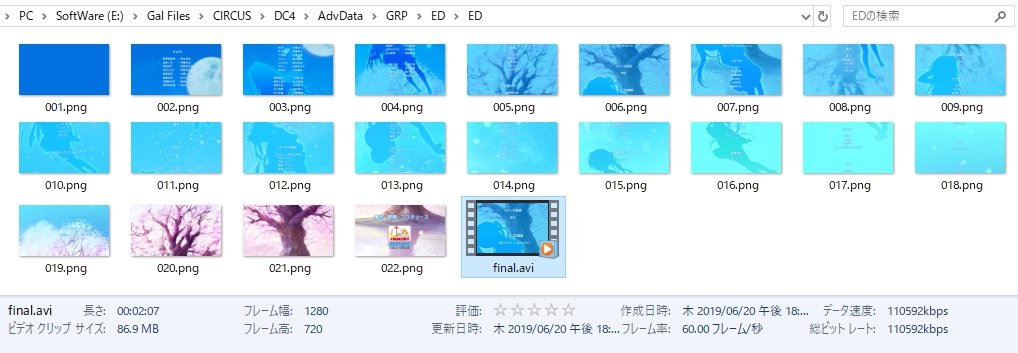
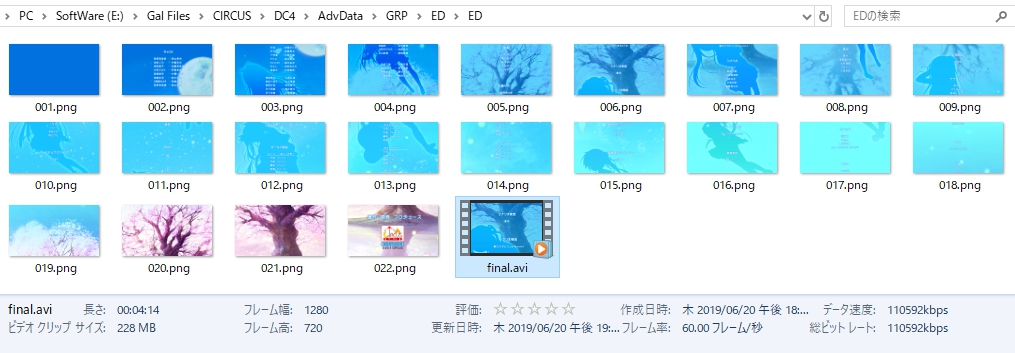
Add setting tips

diff --git a/longimg.py b/longimg.py
@@ -106,7 +106,7 @@ def addFrameToVideo(videoWriter, frames: list):
 	for i, frame in enumerate(frames):
 		videoWriter.write(toCv2(frame))
 
-def getFrameVideo(long_img: Image.Image, ratio: float, PerMove: int, PerFragment: int, fps: int, finalwait: int, path: str):
+def getFrameVideo(long_img: Image.Image, ratio: float, PerMove: int, PerFragment: int, fps: int, beginwait: int, finalwait: int, path: str):
 	'''
 	分批次处理帧切片和视频
 
@@ -123,6 +123,12 @@ def getFrameVideo(long_img: Image.Image, ratio: float, PerMove: int, PerFragment
 	videoWriter = cv2.VideoWriter(path, fourcc, fps, (frame_width, frame_height))
 	
 	print("All Frame Count: ", FrameCnt)
+	print("Final Duration:  %.2fs\n" % ((FrameCnt + beginwait + finalwait) / fps))
+
+	# 视频开始等待的帧数
+	print("Handle Begining Frame: All for %d" % beginwait)
+	for i in range(beginwait):
+		addFrameToVideo(videoWriter, getFrame(long_img, PerMove, frame_width, frame_height, 0, 1))
 
 	# 总批次数，向上取整，超过部分在 getFrame 判断
 	batch = math.ceil(FrameCnt / PerFragment)
@@ -142,27 +148,63 @@ def getFrameVideo(long_img: Image.Image, ratio: float, PerMove: int, PerFragment
 	# 释放资源
 	videoWriter.release()
 
-def checkFileExist(filtpath):
+def checkFileExist(filepath):
 	'''
 	判断文件是否存在
 	'''
 	if os.path.exists(filepath):
-		op = input("\nThe file %s exists, cover it? (y/n): " % filename)
+		op = input("\nThe file %s has existed, cover it? (y/n): " % filepath)
 		while not (op == "n" or op == "y"):
-			op = input("Wrong option, the file exists, cover it? (y/n): ")
+			op = input("Wrong option, the file has existed, cover it? (y/n): ")
 		if op == "n":
 			exit(1)
 
-if __name__ == "__main__":
+def getArgv() -> (str, str, float, int, int, int, int, str):
+	'''
+	获得系统参数
+	'''
 	dir = sys.argv[1] # 图片所在文件夹
 	ext = sys.argv[2] # 图片的后缀名
-	ratio = float(sys.argv[3]) / float(sys.argv[4]) # 分辨率 16 9 / 4 3
-	fps = int(sys.argv[5]) # 帧数 30 / 60
-	finalwait = int(sys.argv[6]) # 最后的等待时间
-	filename = sys.argv[7] # 保存文件名，不带后缀都指定为 avi
 
-	# 保存的文件名
-	filepath = "%s%s%s.avi" % (dir, os.path.sep, filename)
+	radioW = int(sys.argv[3])
+	radioH = int(sys.argv[4])
+	ratio = float(radioW) / float(radioH) # 分辨率 16 9 / 4 3
+	
+	fps = int(sys.argv[5]) # 帧数 30 / 60
+
+	PerMove = int(sys.argv[6]) # 每一帧对应移动长图多少像素
+
+	beginwait = int(sys.argv[7]) # 开始的等待时间
+	finalwait = int(sys.argv[8]) # 最后的等待时间
+
+	filename = sys.argv[9] # 保存文件名，不带后缀都指定为 avi
+	filepath = "%s%s%s.avi" % (dir, os.path.sep, filename) # 保存的文件名
+
+	print('''
+Setting:
+Images Directory: {}*.{}
+Frame Ratio: {}:{}, FPS: {}, Pixel Move: {}, 
+Begin Wait:{}, Final Wait: {}
+Save FileName: {}
+Video Duration: See After \
+'''
+	.format(dir + os.path.sep, ext,
+			radioW, radioH, fps, PerMove,
+			beginwait, finalwait,
+			filepath))
+
+	op = input("\nContinue? (y/n): ")
+	while not (op == "n" or op == "y"):
+		op = input("Wrong option, continue? (y/n): ")
+	if op == "n":
+		exit(1)
+
+	return dir, ext, ratio, fps, PerMove, beginwait, finalwait, filepath
+
+if __name__ == "__main__":
+
+	dir, ext, ratio, fps, PerMove, beginwait, finalwait, filepath = getArgv()
+	
 	# 判断文件是否存在
 	checkFileExist(filepath)
 
@@ -173,14 +215,14 @@ if __name__ == "__main__":
 	print("> Transform to Long Image Finish\n")
 
 	# 每一帧在长图中的移动像素数 和 每一批次处理的帧数
-	PerMove = 2
+	# PerMove = 1
 	PerFragment = 200 # 别设置太高，机子内存承受不住
 
 	### 获取每一帧以及插入视频 ###
 	print("> Get Frames and Add to Video Start")
 	video = getFrameVideo(long_img=long_img, ratio=ratio,
-		PerMove=PerMove, PerFragment=PerFragment, fps=fps, finalwait=finalwait, path=filepath)
+		PerMove=PerMove, PerFragment=PerFragment, fps=fps, beginwait=beginwait, finalwait=finalwait, path=filepath)
 	print("> Get Frames and Add to Video Finish\n")
 	print("> Find Your Video in \"%s\"" % filepath)
 	
-# python longimg.py "E:\Gal Files\CIRCUS\DC4\AdvData\GRP\ED\ED" png 16 9 60 100 final
+# python longimg.py "E:\Gal Files\CIRCUS\DC4\AdvData\GRP\ED\ED" png 16 9 60 1 50 100 final

diff --git a/readme.md b/readme.md
@@ -9,9 +9,9 @@
 ### Run
 ```python
 # python longimg.py 
-#	<Img folder> <Extension> <Resolution> <Waiting frame> <Save filename>
+#	<Img_folder> <Extension> <Resolution: W H> <FPS> <PixelMove> <Frame: Begining Waiting> <Save filename>
 
-python longimg.py "E:\Gal Files\CIRCUS\DC4\AdvData\GRP\ED\ED" png 16 9 60 100 final
+python longimg.py "xxxxxx\ED" png 16 9 60 1 50 100 final
 ```
 
 ### Screenshot
